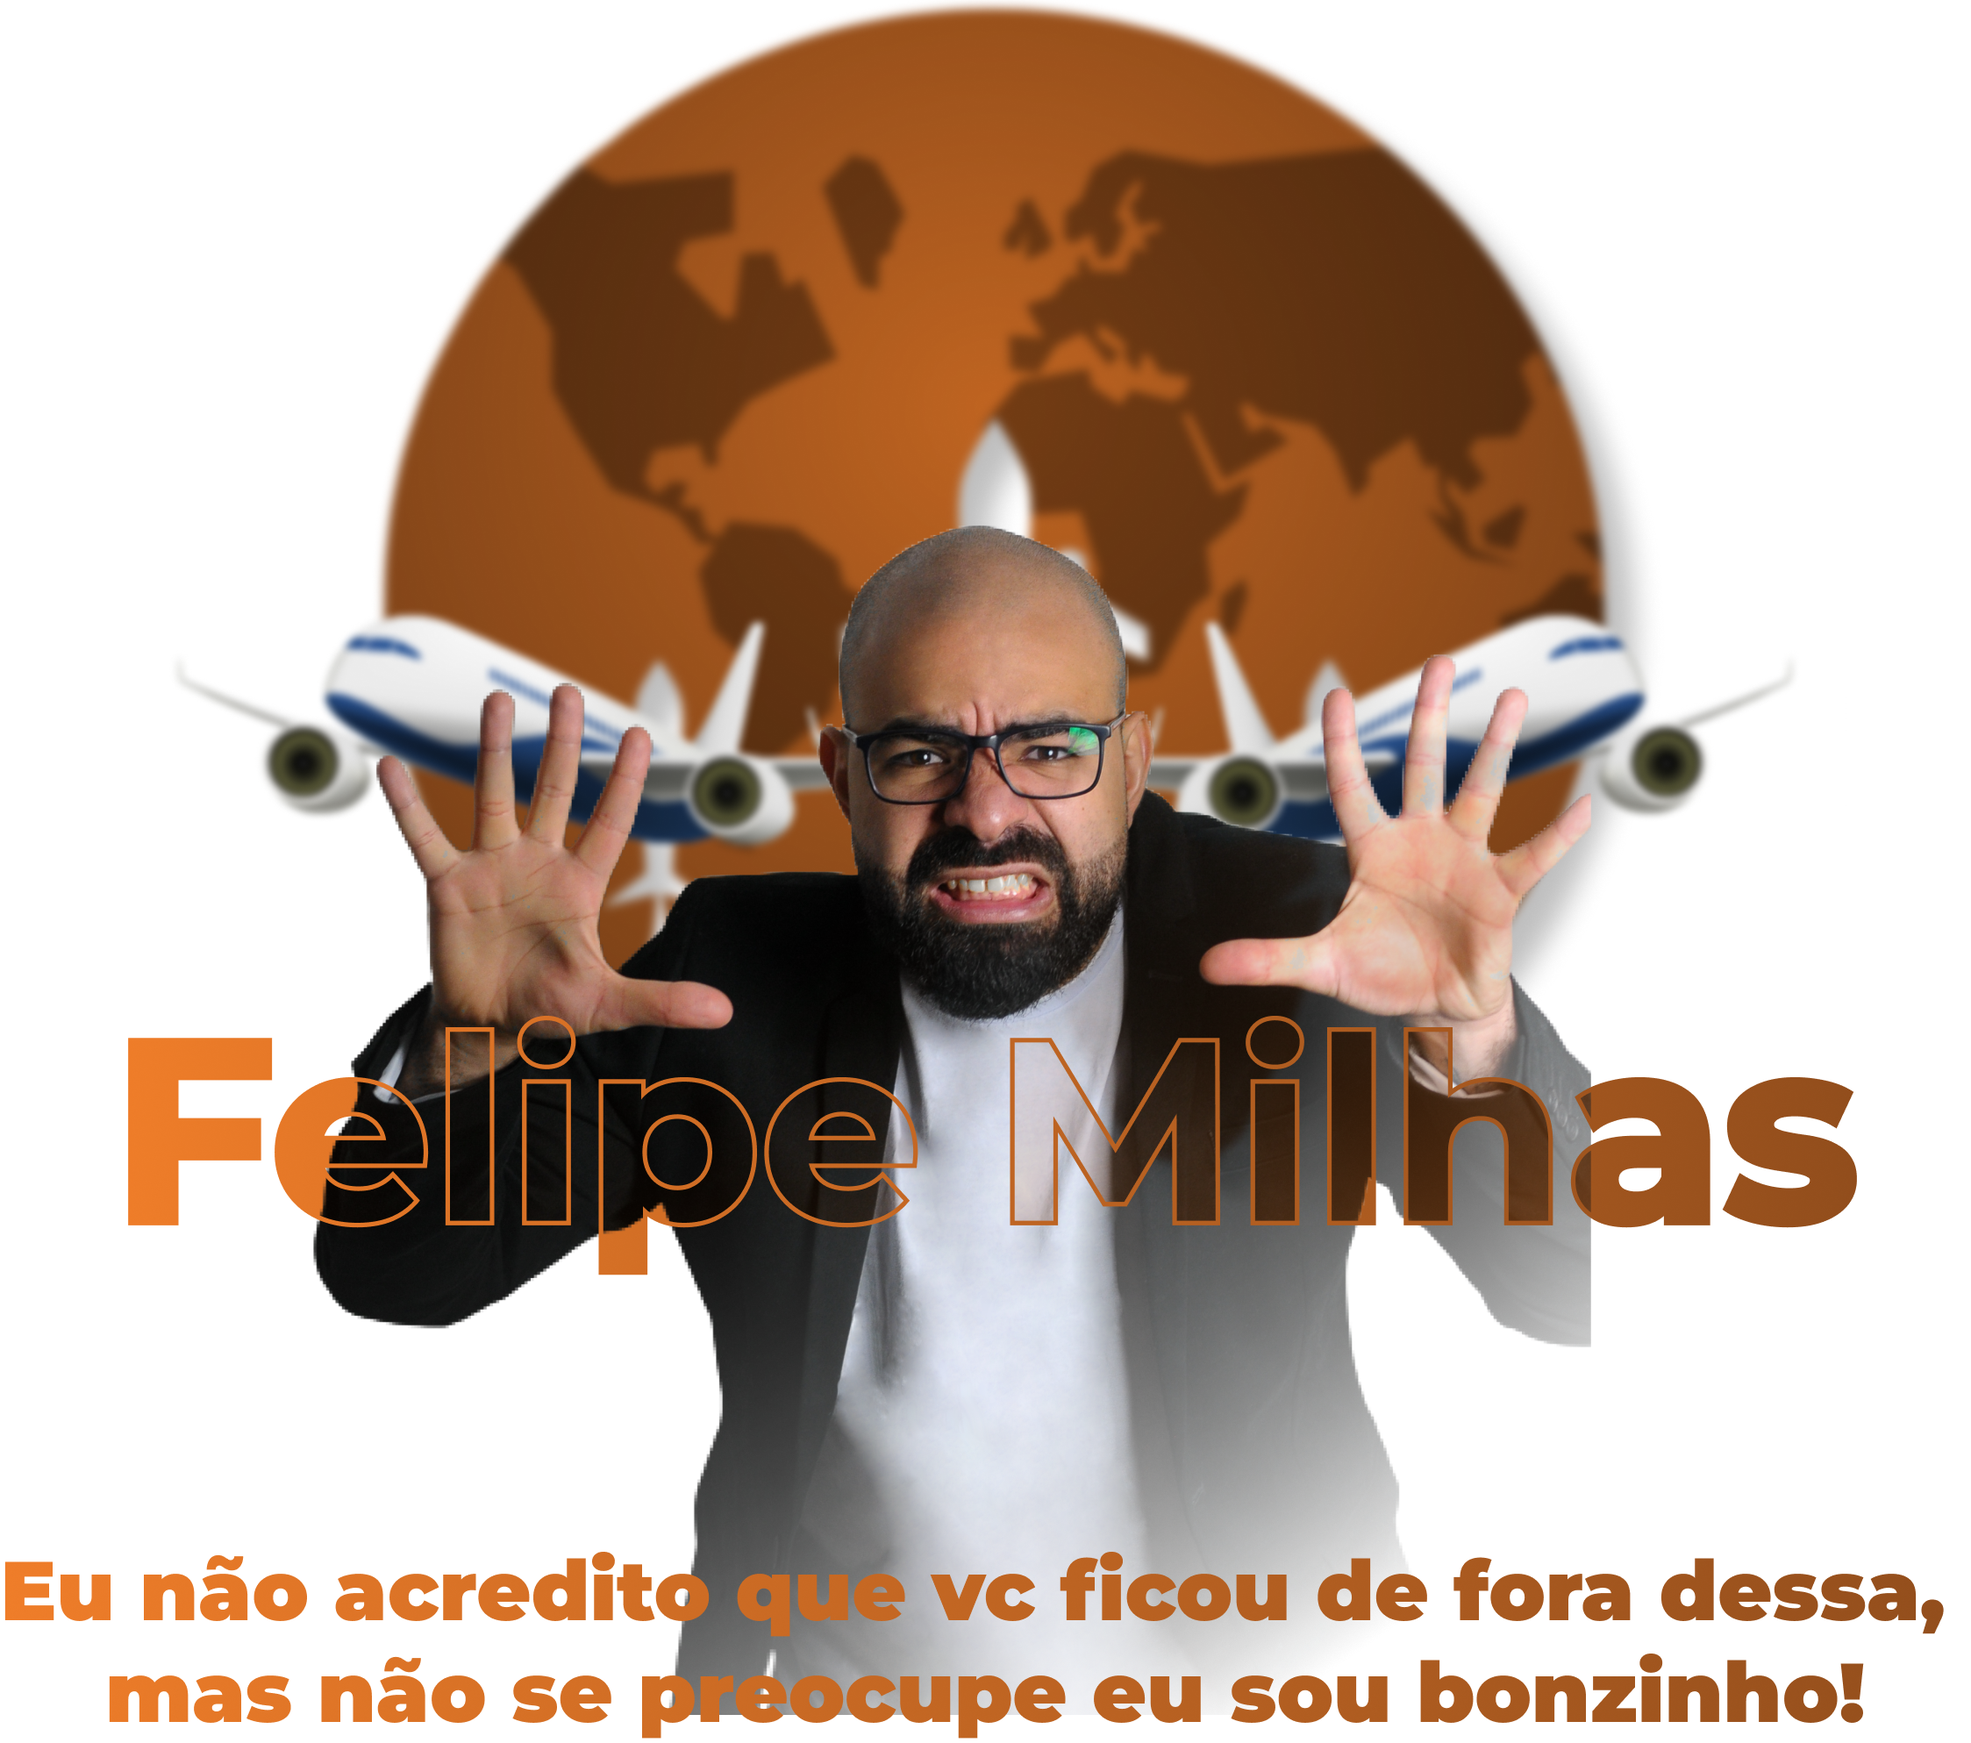
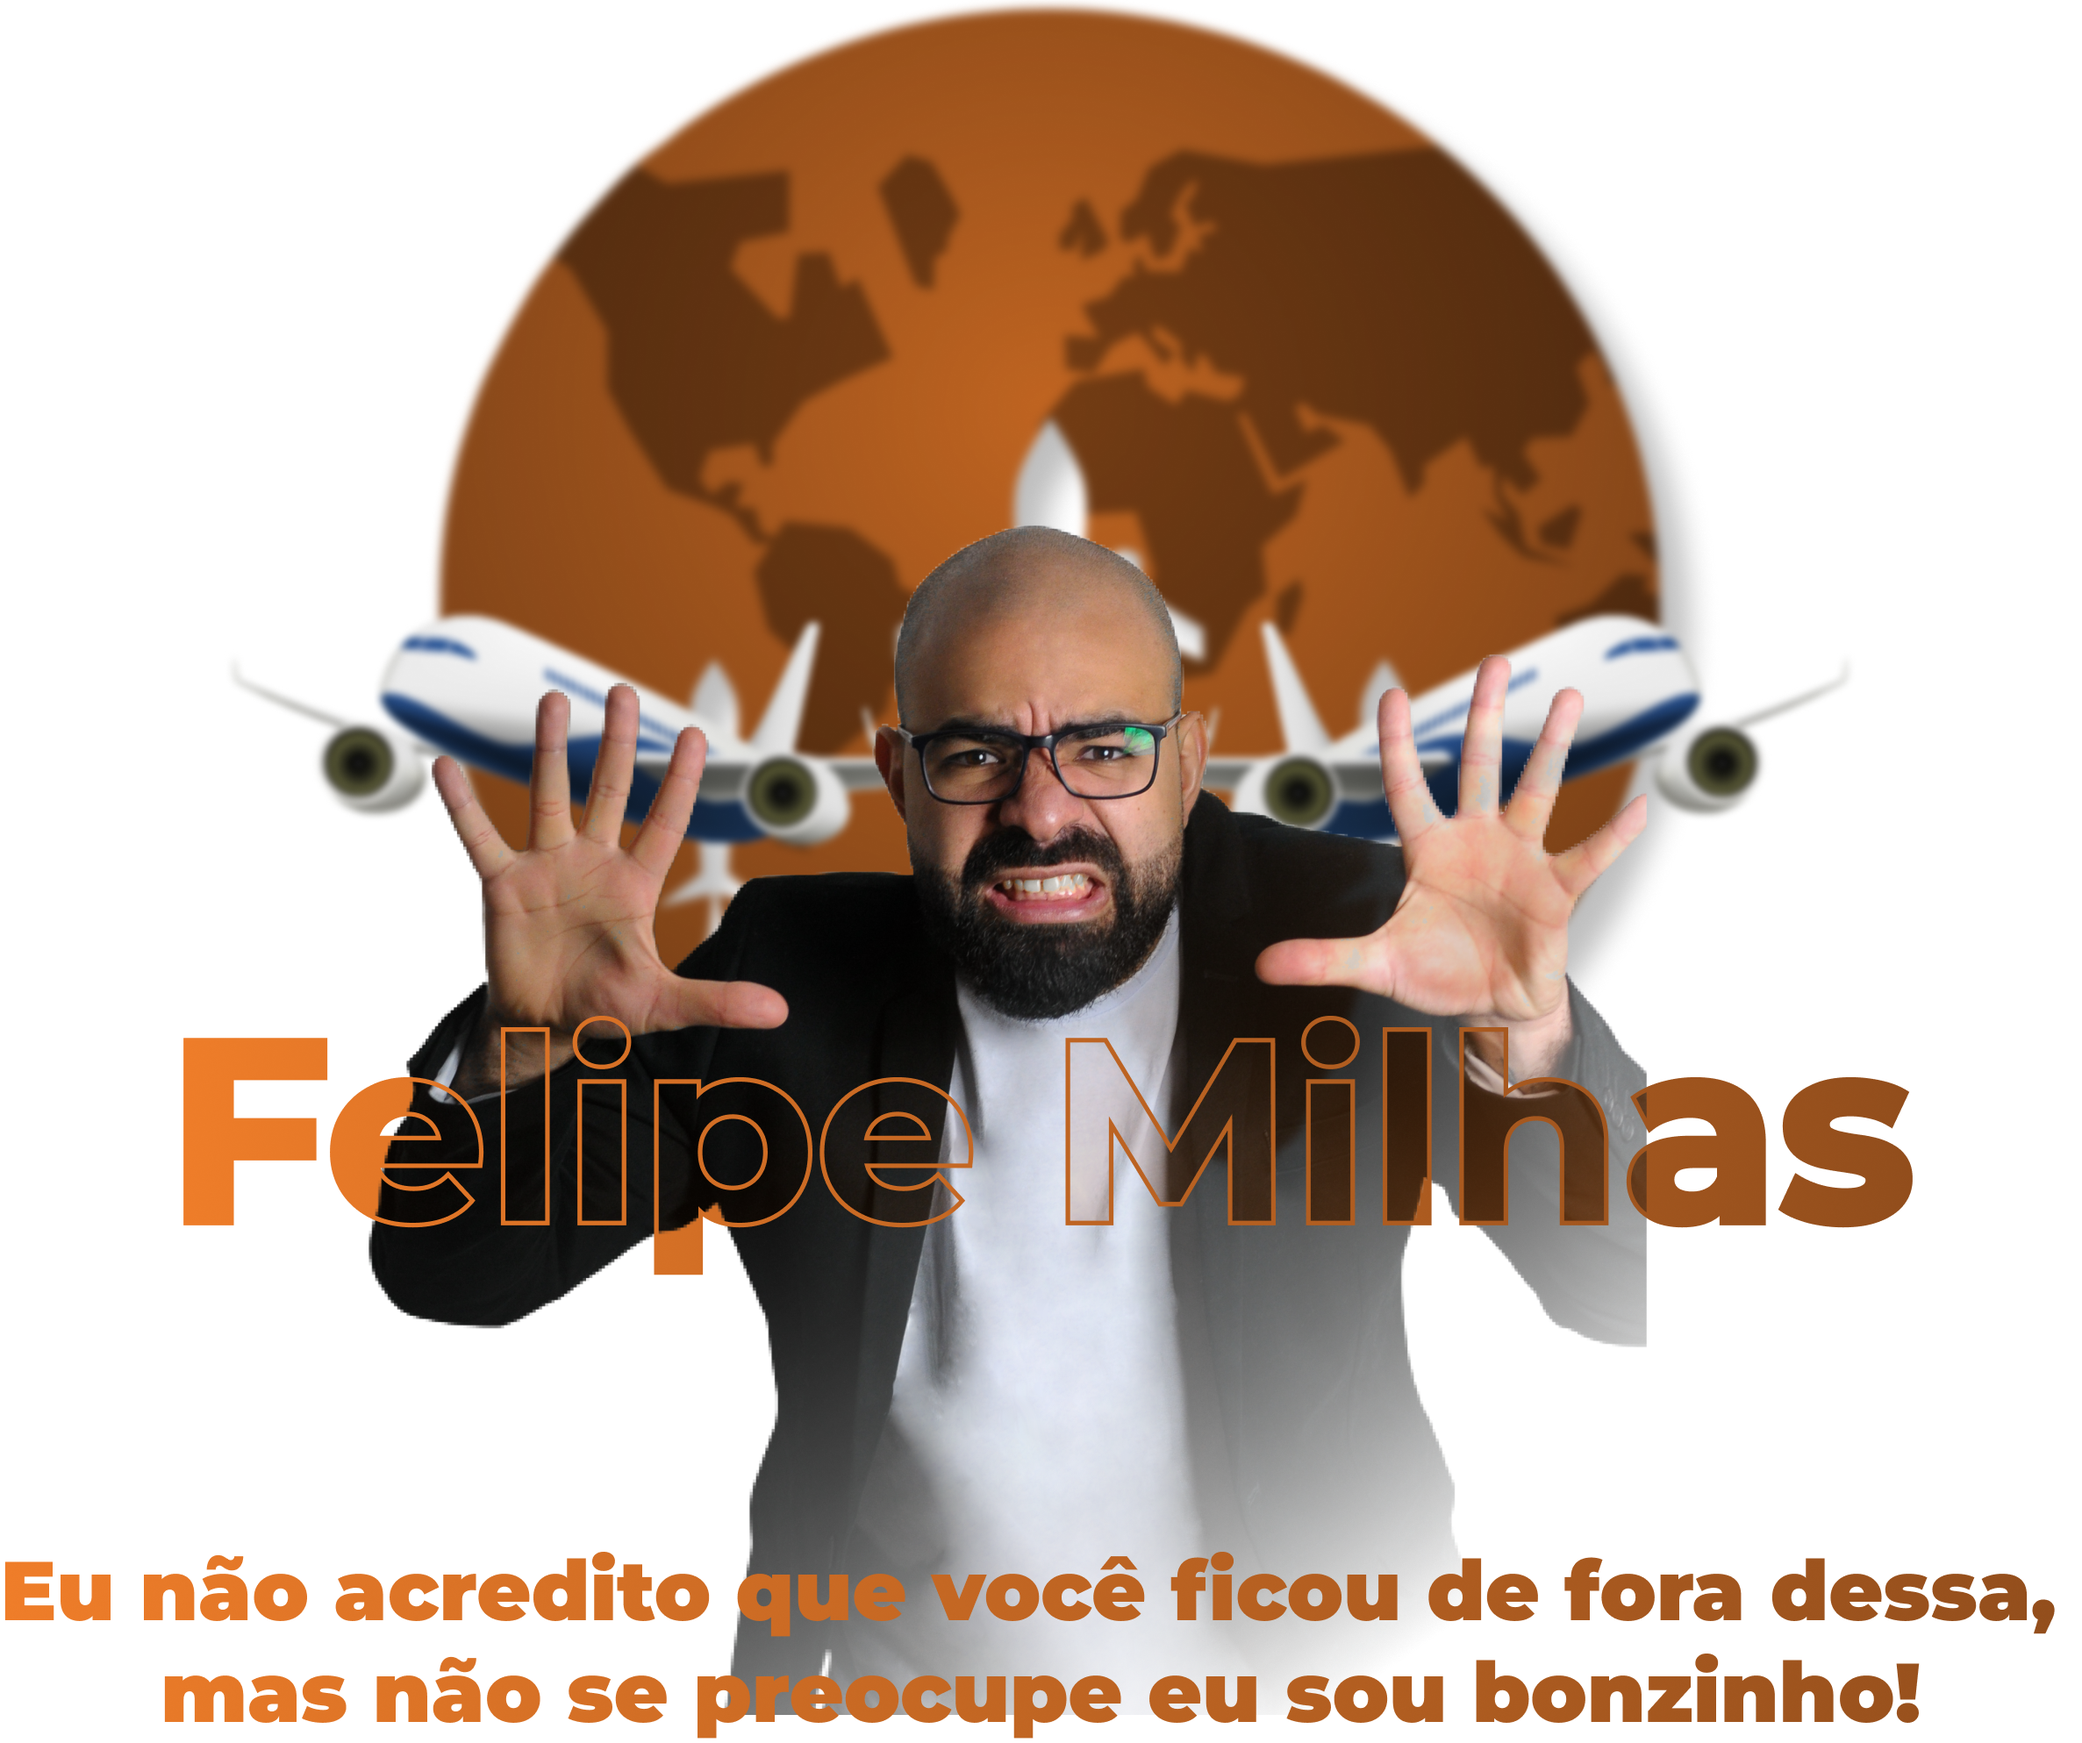
correct grammar

diff --git a/src/components/form.tsx b/src/components/form.tsx
@@ -52,13 +52,13 @@ export default function Form() {
         </div>
         <div className="lg:flex-grow md:w-1/2 lg:pl-24 md:pl-16 flex flex-col md:items-start items-center">
           <h1 className="text-lg md:text3xl sm:text-4xl mb-4 font-medium text-white text-center">
-            Os conteúdos das aulas ao vivo foram <span className='text-orange-400'>transformadores!</span> 
+            Os conteúdos das aulas ao vivo foram <span className='text-orange-400'>TRANSFORMADORAS!</span> 
           </h1>
           <h2 className="text-lg md:text3xl sm:text-4xl  mb-4 font-medium text-white text-center">
-            Além de todo conteúdo entregamos também alguns materiais com tarefas exclusivas   
+            Além de todo conteúdo entregamos também alguns materiais com tarefas exclusivas.   
           </h2>
           <h2 className="text-lg md:text3xl sm:text-4xl  mb-4 font-medium text-white text-center">
-            Se você quer ter acesso a tudo isso entre agora para o nosso grupo e fique por dentro de nossos proximos eventos e conteúdos!          
+            Se você quer ter acesso a tudo isso entre agora para o nosso grupo e fique por dentro de nossos próximos eventos e conteúdos!          
           </h2>
           <form id='formData' className="w-full flex justify-center flex-col" onSubmit={(e) => Submit(e)}>
             <div className="flex w-full justify-center ">
@@ -81,7 +81,7 @@ export default function Form() {
                 <input required placeholder="Seu whatsapp" name="Whatsapp" type="text" className="w-full bg-white focus:bg-transparent rounded border border-gray-300 focus:ring-2 focus:ring-orange-400 focus:border-orange-400 text-base outline-none text-black focus:text-white py-1 px-3 leading-8 transition-colors duration-200 ease-in-out"/>
               </div>
             </div>
-            <button type="submit" disabled={isSubmitting} className="w-1/2 inline-flex justify-center text-gray bg-orange-400 border-0 my-2 py-2 focus:outline-none hover:bg-orange-500 rounded text-lg transition-color duration-300">{isSubmitting ? 'Enviando...' : 'Quero Saber a Verdade'}</button>
+            <button type="submit" disabled={isSubmitting} className="w-1/2 inline-flex justify-center text-gray bg-orange-400 border-0 my-2 py-2 focus:outline-none hover:bg-orange-500 rounded text-lg transition-color duration-300">{isSubmitting ? 'Enviando...' : 'Quero Fazer Parte'}</button>
           </form>
         </div>
       </div>
